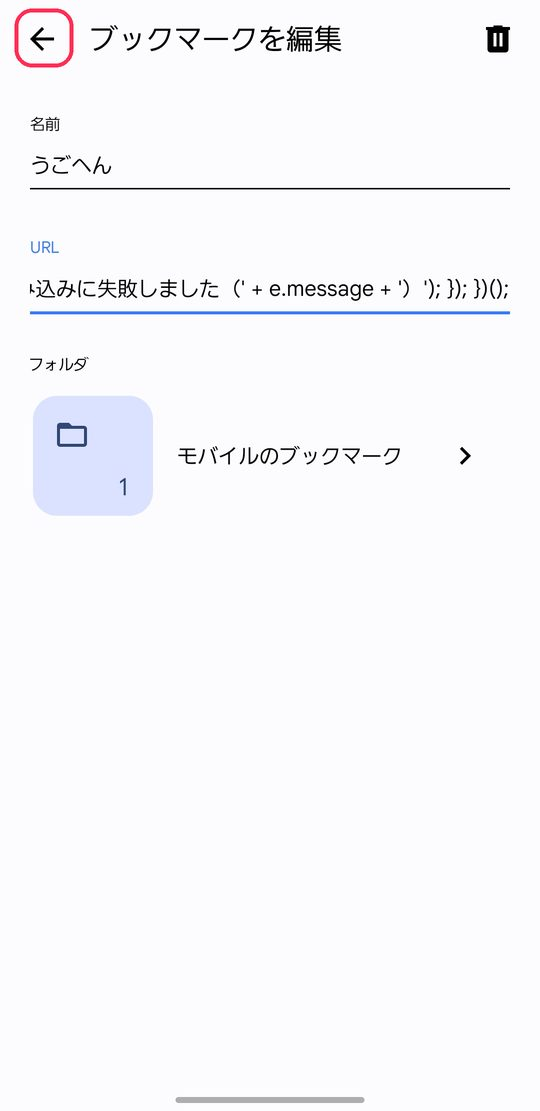
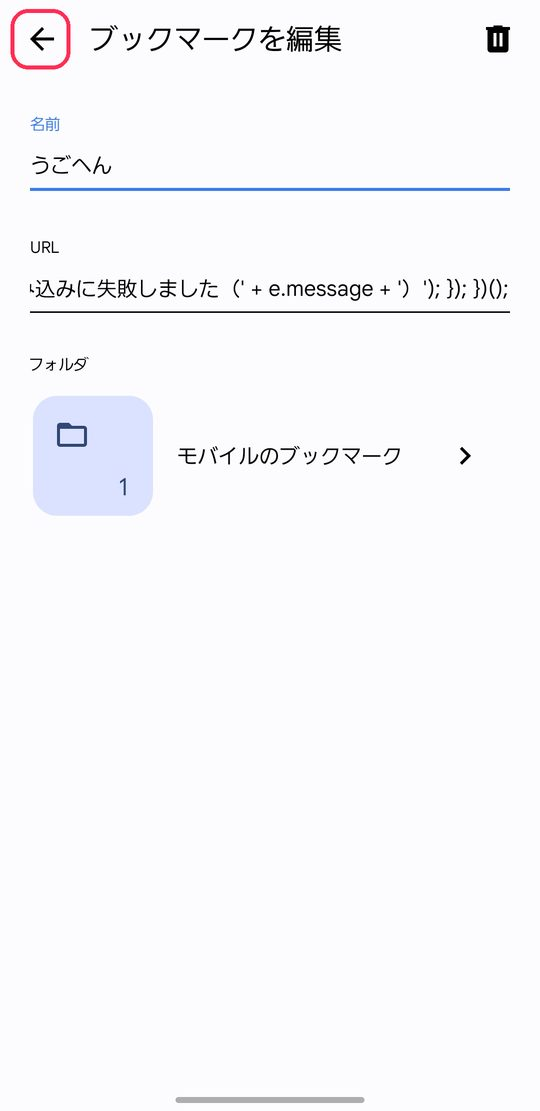
Android の手順画像を、名前「うごへん」・新しい URL の新しいスクショに差し替える
- アドレスバーの候補（a-type）: ☆ のブックマークのすぐ上に配布ページの履歴「うごへん｜…」が並ぶので、☆ の方を選ぶよう案内する
- 名前を書き換えた画面（a-name）と「←」で保存（a-back）も、新しいスクショにする

Claude-Session: https://claude.ai/code/session_01YGb7x4P6hBqErrEvQp5bfD

diff --git a/docs/index.html b/docs/index.html
@@ -213,11 +213,11 @@
     <h3>Chrome で使うとき</h3>
     <ol class="steps">
       <li class="step"><figure><img src="img/a-open.jpg" alt="Chrome のアドレスバーをタップ" loading="lazy"></figure><div class="txt"><span class="num">1</span><p class="head">Chrome のアドレスバーをタップ</p></div></li>
-      <li class="step"><figure><img src="img/a-type.jpg" alt="①「うごへ」と打つ → ② ☆うごへん をタップ" loading="lazy"></figure><div class="txt"><span class="num">2</span><p class="head">①「うごへ」と打つ → ② ☆うごへん をタップ</p><p class="note">☆ の付いた候補は一番下に出ます。キーボードに隠れて見えないときは、キーボードを閉じてください。</p></div></li>
+      <li class="step"><figure><img src="img/a-type.jpg" alt="①「うごへん」と打つ → ② ☆ の「うごへん」をタップ" loading="lazy"></figure><div class="txt"><span class="num">2</span><p class="head">①「うごへん」と打つ → ② ☆ の「うごへん」をタップ</p><p class="note">☆ の付いた候補（ブックマーク）を選びます。すぐ上にある青いアイコンの「うごへん｜…」は、このページの履歴なので違います。☆ が見えないときは、キーボードを閉じてください。</p></div></li>
       <li class="step"><figure><img src="img/a-format.jpg" alt="MP4 か GIF を選ぶ" loading="lazy"></figure><div class="txt"><span class="num">3</span><p class="head">MP4 か GIF を選ぶ</p><p class="note">迷ったら MP4 がおすすめ（軽くてきれい）。</p></div></li>
       <li class="step"><figure><img src="img/a-save.jpg" alt="「保存する」を押す" loading="lazy"></figure><div class="txt"><span class="num">4</span><p class="head">「保存する」を押す</p><p class="note">端末の「ダウンロード」フォルダに入ります。</p></div></li>
     </ol>
-    <p class="note">ブックマークの名前は、ひらがなだけの珍しい名前にしておくと、変換なしで数文字打つだけで候補の上の方に出ます。保存した動画は Google フォトの「デバイス内のフォト」からも見られます。</p>
+    <p class="note">ブックマークの名前は、ひらがなだけの珍しい名前にしておくと、変換なしで打つだけで候補に出ます。保存した動画は Google フォトの「デバイス内のフォト」からも見られます。</p>
     <p class="note">PC の Chrome に同じ Google アカウントでログインしているなら、PC でページ下の「うごへん」ボタンをブックマークバーへドラッグするだけでも、スマホの Chrome に同期されます。</p>
     <p class="note">ブックマークは実行のたびに最新版のコードを読み込むので、更新のたびに入れ直す必要はありません。</p>
     <details>

diff --git a/src/index.html b/src/index.html
@@ -213,11 +213,11 @@
     <h3>Chrome で使うとき</h3>
     <ol class="steps">
       <li class="step"><figure><img src="img/a-open.jpg" alt="Chrome のアドレスバーをタップ" loading="lazy"></figure><div class="txt"><span class="num">1</span><p class="head">Chrome のアドレスバーをタップ</p></div></li>
-      <li class="step"><figure><img src="img/a-type.jpg" alt="①「うごへ」と打つ → ② ☆うごへん をタップ" loading="lazy"></figure><div class="txt"><span class="num">2</span><p class="head">①「うごへ」と打つ → ② ☆うごへん をタップ</p><p class="note">☆ の付いた候補は一番下に出ます。キーボードに隠れて見えないときは、キーボードを閉じてください。</p></div></li>
+      <li class="step"><figure><img src="img/a-type.jpg" alt="①「うごへん」と打つ → ② ☆ の「うごへん」をタップ" loading="lazy"></figure><div class="txt"><span class="num">2</span><p class="head">①「うごへん」と打つ → ② ☆ の「うごへん」をタップ</p><p class="note">☆ の付いた候補（ブックマーク）を選びます。すぐ上にある青いアイコンの「うごへん｜…」は、このページの履歴なので違います。☆ が見えないときは、キーボードを閉じてください。</p></div></li>
       <li class="step"><figure><img src="img/a-format.jpg" alt="MP4 か GIF を選ぶ" loading="lazy"></figure><div class="txt"><span class="num">3</span><p class="head">MP4 か GIF を選ぶ</p><p class="note">迷ったら MP4 がおすすめ（軽くてきれい）。</p></div></li>
       <li class="step"><figure><img src="img/a-save.jpg" alt="「保存する」を押す" loading="lazy"></figure><div class="txt"><span class="num">4</span><p class="head">「保存する」を押す</p><p class="note">端末の「ダウンロード」フォルダに入ります。</p></div></li>
     </ol>
-    <p class="note">ブックマークの名前は、ひらがなだけの珍しい名前にしておくと、変換なしで数文字打つだけで候補の上の方に出ます。保存した動画は Google フォトの「デバイス内のフォト」からも見られます。</p>
+    <p class="note">ブックマークの名前は、ひらがなだけの珍しい名前にしておくと、変換なしで打つだけで候補に出ます。保存した動画は Google フォトの「デバイス内のフォト」からも見られます。</p>
     <p class="note">PC の Chrome に同じ Google アカウントでログインしているなら、PC でページ下の「うごへん」ボタンをブックマークバーへドラッグするだけでも、スマホの Chrome に同期されます。</p>
     <p class="note">ブックマークは実行のたびに最新版のコードを読み込むので、更新のたびに入れ直す必要はありません。</p>
     <details>
